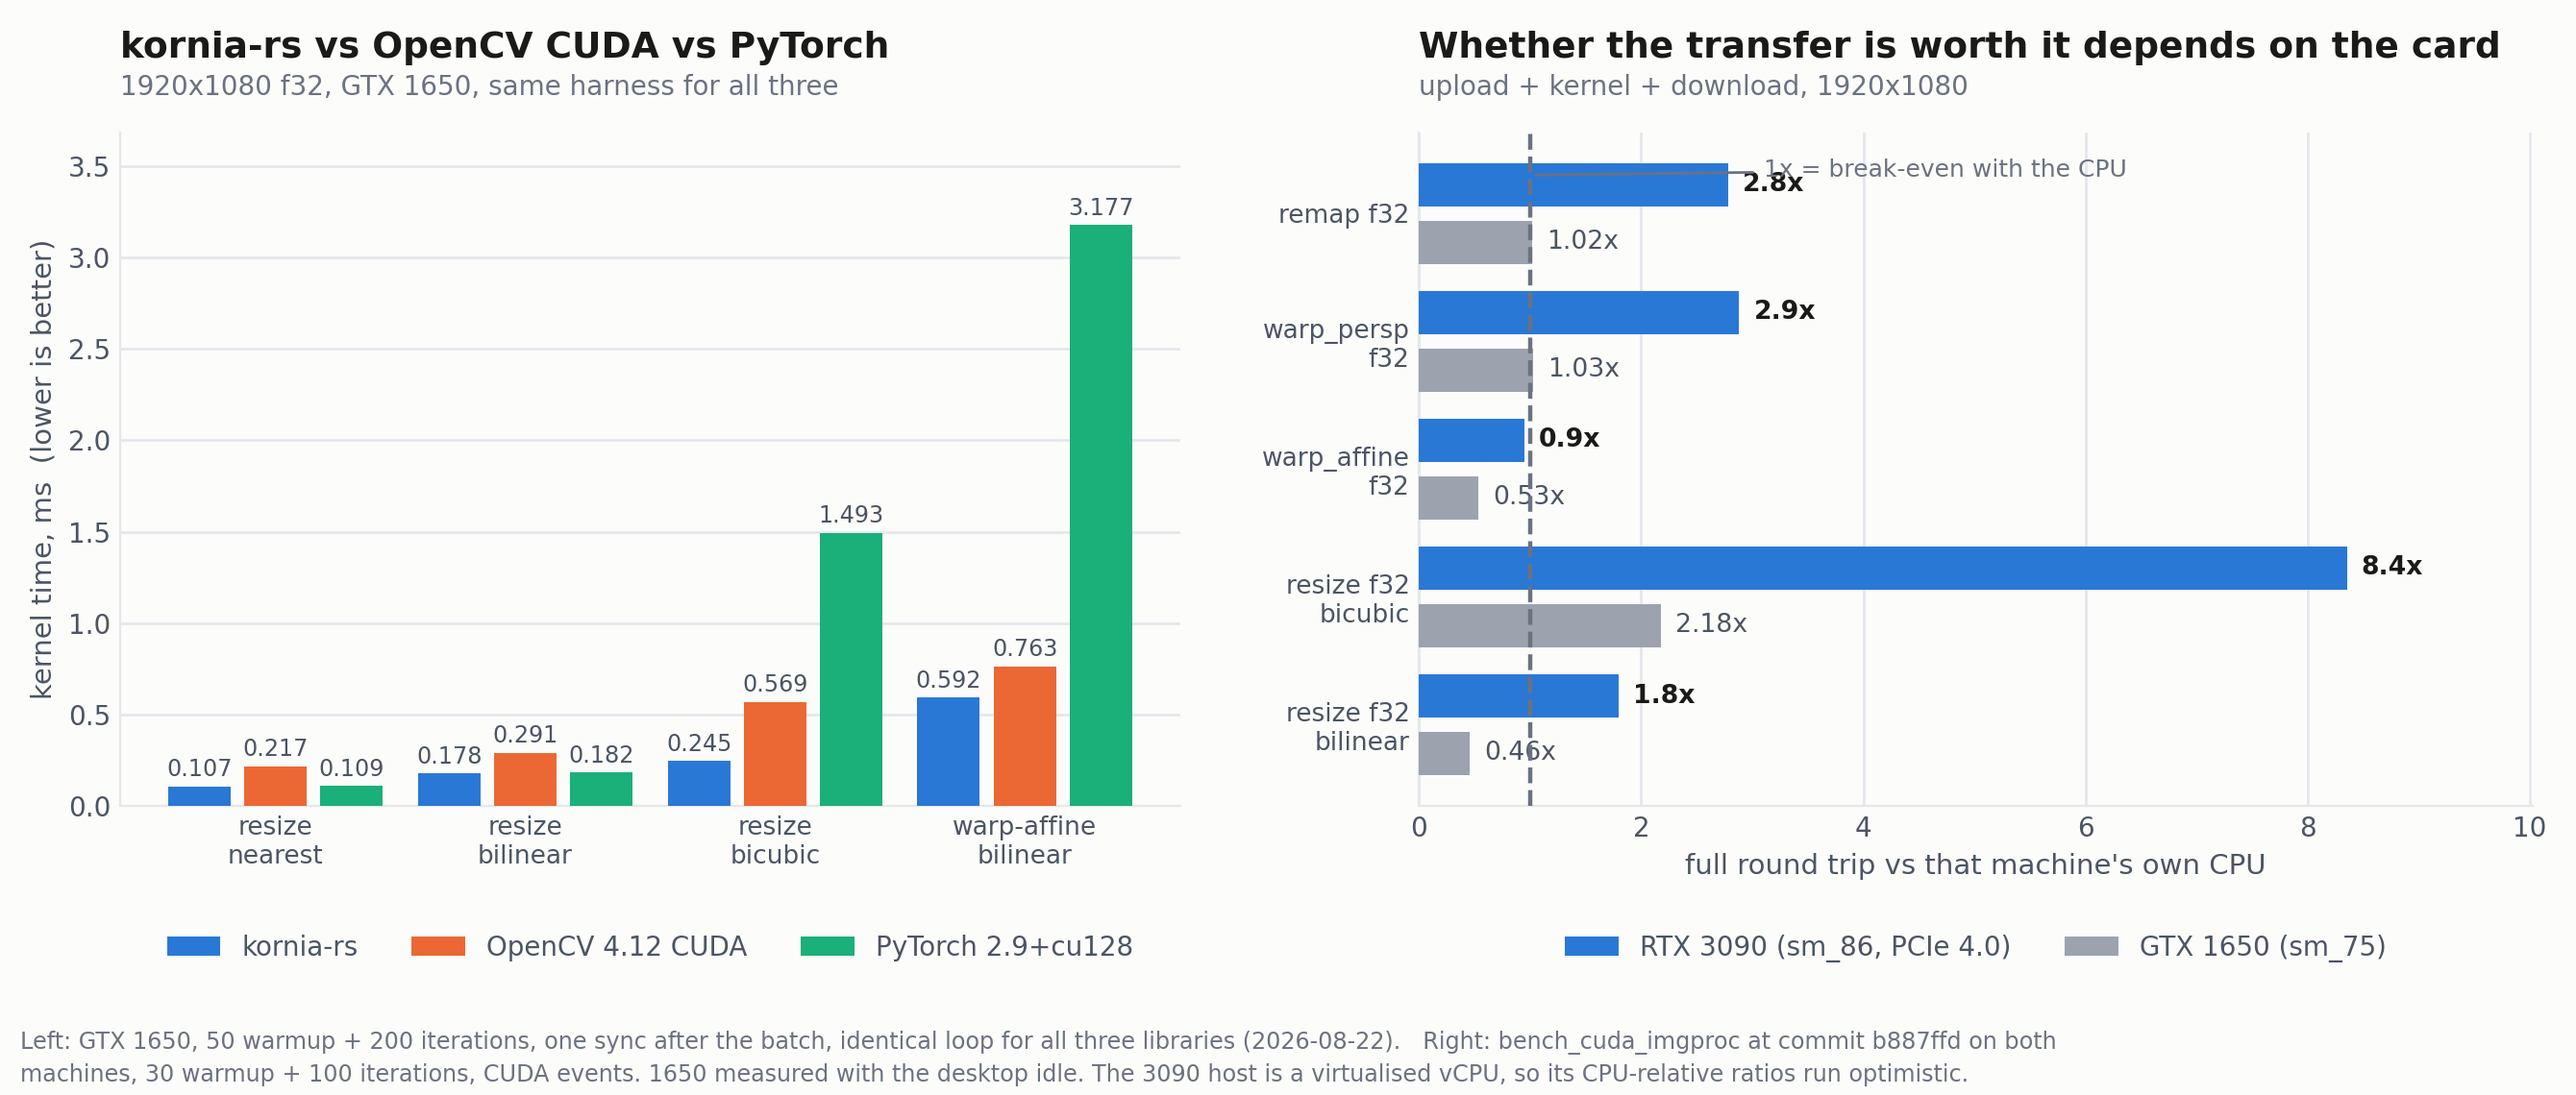
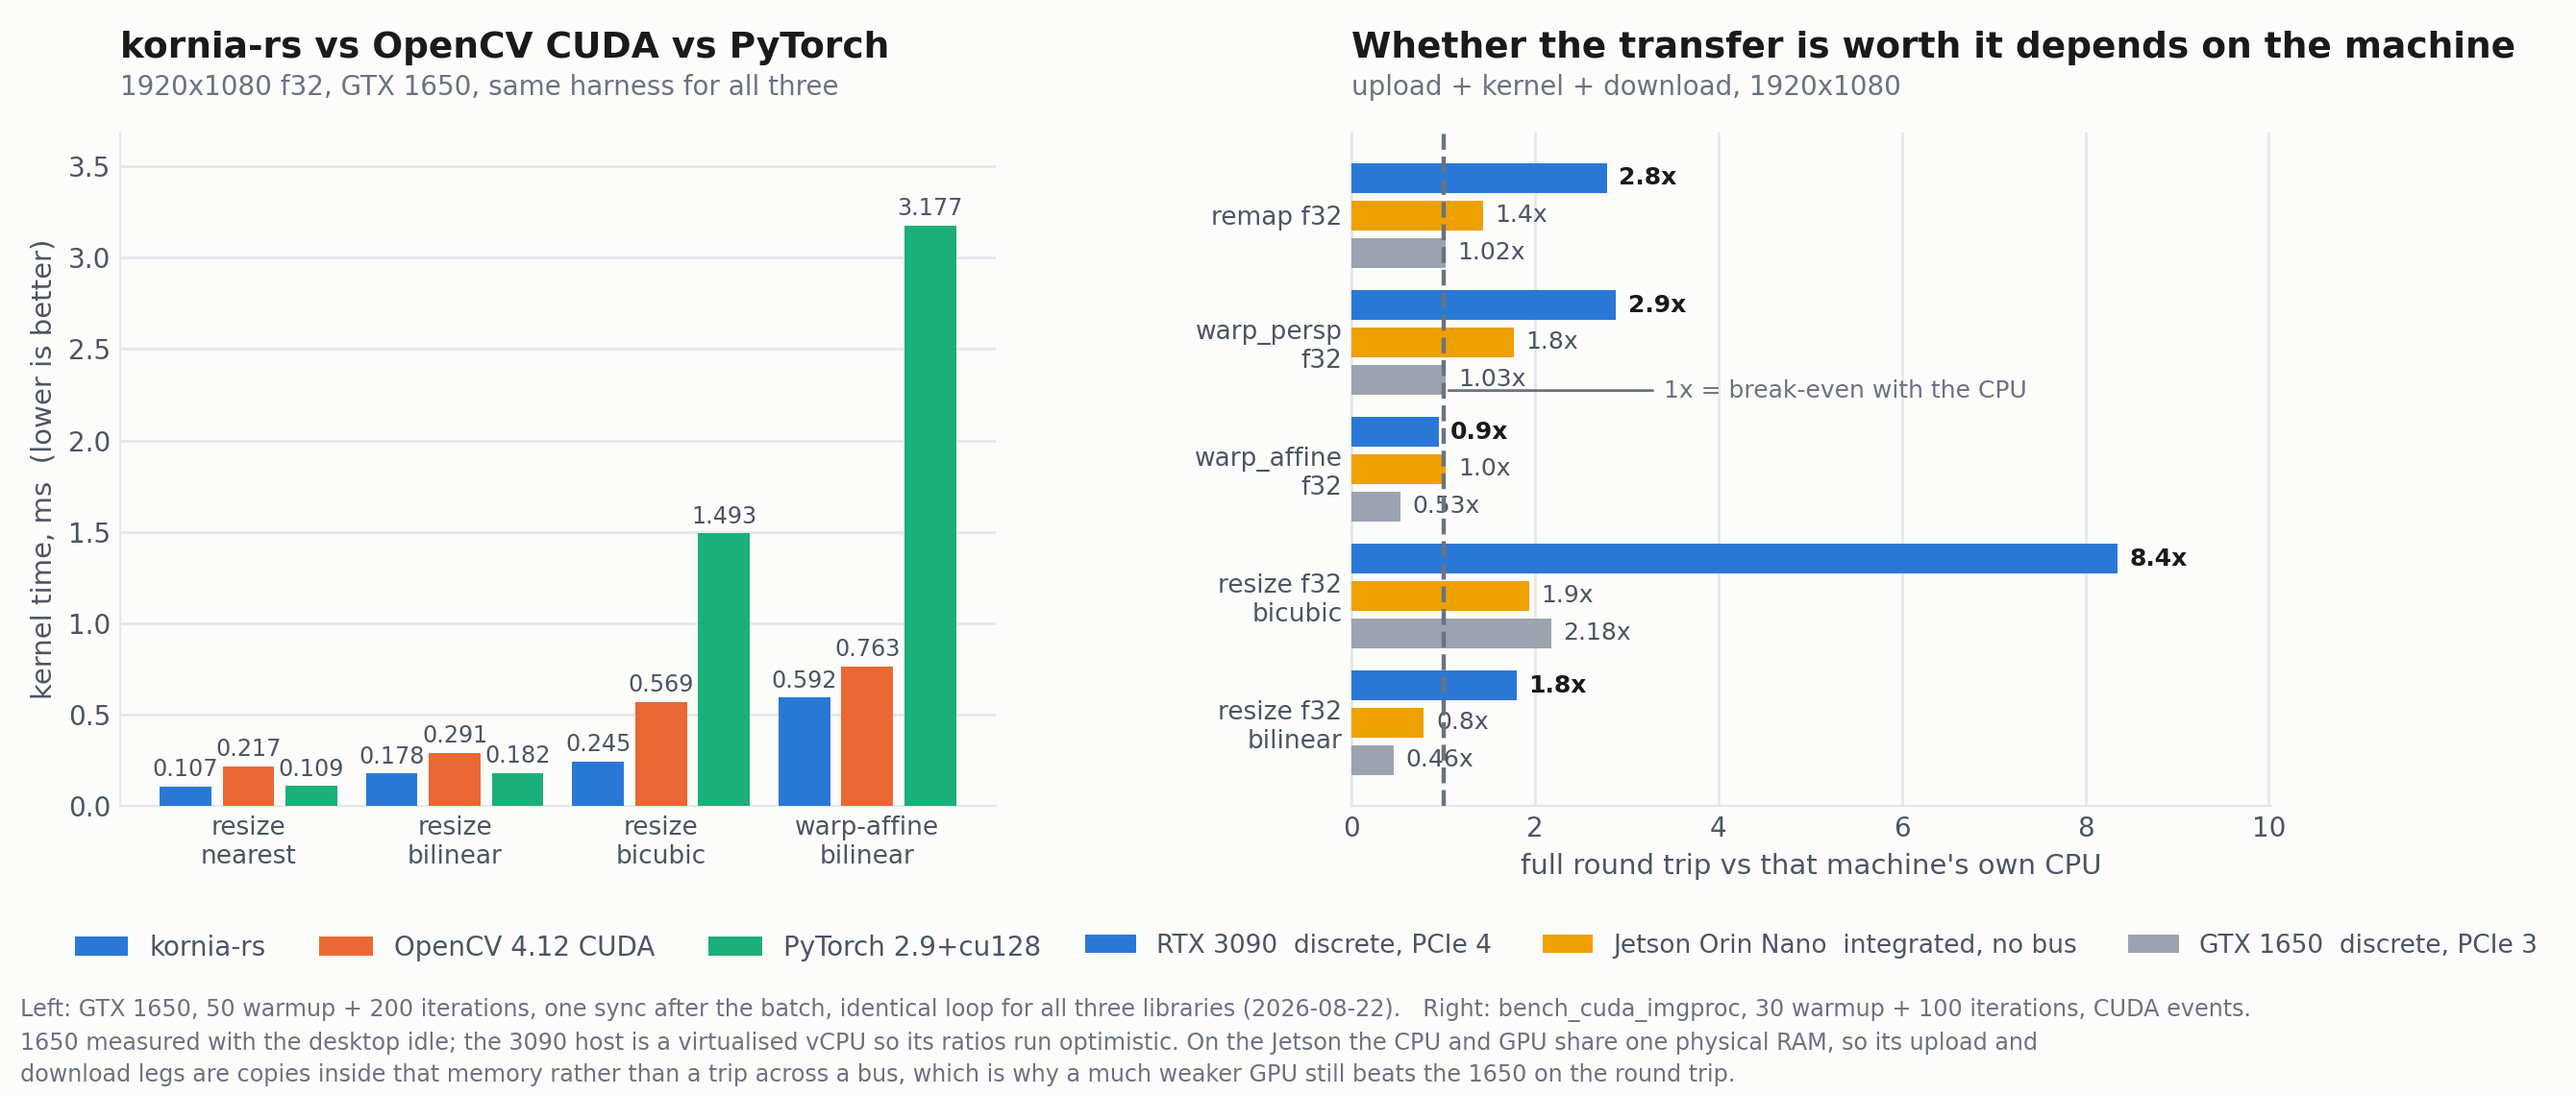
post: add Jetson Orin Nano as a third machine in the round-trip figure and table

diff --git a/_posts/2026-08-22-gsoc-2026-gpu-acceleration-kornia-rs.md b/_posts/2026-08-22-gsoc-2026-gpu-acceleration-kornia-rs.md
@@ -167,12 +167,19 @@ benchmark, same commit, on an RTX 3090:
 
 | resize f32 bilinear, 1080p | CPU | H2D | Kernel | D2H | Round trip |
 | --- | ---: | ---: | ---: | ---: | ---: |
-| GTX 1650 | 5.37 ms | 9.22 ms | 0.18 ms | 2.29 ms | **0.5x** |
-| RTX 3090 | 6.95 ms | 2.71 ms | 0.04 ms | 1.11 ms | **1.8x** |
+| GTX 1650 (discrete) | 5.37 ms | 9.22 ms | 0.18 ms | 2.29 ms | **0.5x** |
+| Jetson Orin Nano (integrated) | 5.09 ms | 3.73 ms | 1.44 ms | 1.28 ms | **0.8x** |
+| RTX 3090 (discrete) | 6.95 ms | 2.71 ms | 0.04 ms | 1.11 ms | **1.8x** |
 
 The kernel got 4.5x faster, which I expected. The transfers got 3.4x faster on
 the way up and 2x on the way down, which I hadn't thought about at all. On the
 3090 the round trip wins on 37 of the 58 operations, by up to 38x.
+
+The Jetson makes the same point from the other direction. Its GPU is far weaker
+than the 1650, and its kernel is eight times slower, but its round trip still
+comes out ahead, because CPU and GPU share the same physical RAM and there is no
+bus to cross. On bicubic it hits 1.9x where the 1650 manages 2.18x with a much
+faster kernel.
 
 So "PCIe dominates" was never a fact about GPUs. It was a fact about my GPU, and
 I was one sample away from writing it down as a law. What actually holds is
